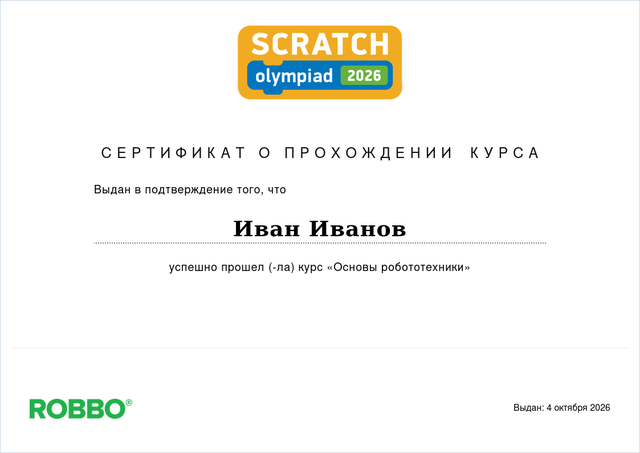
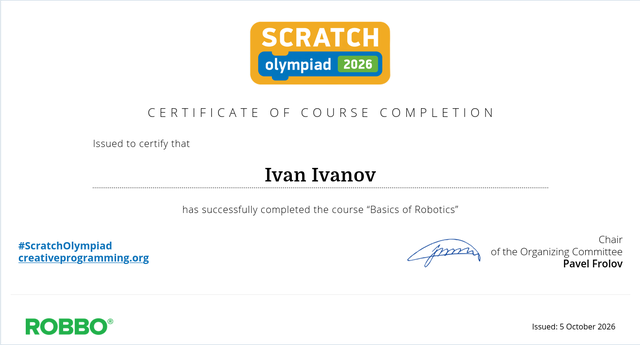
feat(certificates): English Scratch Olympiad sheet as the courses default design

diff --git a/themes/robbo-theme/lms/templates/certificates/designs/olympiad.html b/themes/robbo-theme/lms/templates/certificates/designs/olympiad.html
@@ -1,7 +1,6 @@
 ## title: Олимпиада Scratch
-## description: Белый лист с логотипом олимпиады Scratch и подписью председателя оргкомитета.
+## description: Белый лист на английском с логотипом олимпиады Scratch, датой выдачи и подписью председателя оргкомитета.
 <%page expression_filter="h"/>
-<%! from django.utils.translation import gettext as _ %>
 <%namespace name='static' file='/static_content.html'/>
 <%
 # Exact Koa Scratch-Olympiad sheet markup
@@ -10,6 +9,10 @@
 # overridden in robbo-certificate.css (.robbo-koa-cert).
 course_mode_class = course_mode if course_mode else ''
 cert_mode = course_mode or ''
+# courses: the sheet is English whatever the interface language (like the green sheet);
+# plain strftime gives English month names in the LMS container.
+created_on = context.get('certificate_created_on')
+issued_on = created_on.strftime('%-d %B %Y') if created_on else certificate_created_date
 %>
 
 <main class="accomplishment accomplishment-main">
@@ -24,7 +27,7 @@ cert_mode = course_mode or ''
             <div class="accomplishment-type">
 
                 <span style="margin-top: 20px; margin-bottom: 6.5%" class="accomplishment-type-symbol">
-                  <img style="width: 95% !important; max-width: 95% !important;" class="src" src="${static.url('robbo-theme/images/certificates/Robbo-scratch-olympiad.png')}" alt="${_('Scratch Olympiad logo')}">
+                  <img style="width: 95% !important; max-width: 95% !important;" class="src" src="${static.url('robbo-theme/images/certificates/Robbo-scratch-olympiad.png')}" alt="Scratch Olympiad logo">
                 </span>
 
             </div>
@@ -32,16 +35,16 @@ cert_mode = course_mode or ''
             <div class="wrapper-statement-and-signatories-top">
                 <div style="margin-bottom: 30px !important; margin-left:13.3% !important; margin-right: 13.3% !important;" class="accomplishment-statement-left">
 
-                    <p style="white-space: pre; max-width: 100% !important;" class="accomplishment-type-label hd-3-s">${_("C E R T I F I C A T E   O F   C O U R S E   C O M P L E T I O N")}</p>
+                    <p style="white-space: pre; max-width: 100% !important;" class="accomplishment-type-label hd-3-s">C E R T I F I C A T E   O F   C O U R S E   C O M P L E T I O N</p>
 
                     <p class="accomplishment-statement-lead">
-                        <p style="text-align: left; line-height: 1.0 !important;" class="accomplishment-summary copy copy-lead-middle">${_("Issued to certify that")}</p>
+                        <p style="text-align: left; line-height: 1.0 !important;" class="accomplishment-summary copy copy-lead-middle">Issued to certify that</p>
 
                         <strong class="accomplishment-recipient emphasized hd-1-emphasized ">${accomplishment_copy_name}</strong>
                     </p>
                     <p style="border-bottom: 2px dotted gray; margin-bottom: 30px !important;" class="accomplishment-summary copy copy-lead">&nbsp;</p>
 
-                    <p style="line-height: 1.35 !important; margin-bottom: 25px !important;" class="accomplishment-statement-detail copy copy-lead-middle">${_("has successfully completed the course “{course_name}”").format(course_name=accomplishment_copy_course_name)}</p>
+                    <p style="line-height: 1.35 !important; margin-bottom: 25px !important;" class="accomplishment-statement-detail copy copy-lead-middle">has successfully completed the course “${accomplishment_copy_course_name}”</p>
                 </div>
             </div>
 
@@ -49,7 +52,7 @@ cert_mode = course_mode or ''
             <div class="wrapper-statement-and-signatories">
                 % if cert_mode != 'base':
                 <div class="accomplishment-signatories">
-                    <h3 class="accomplishment-signatories-title sr-only">${_("Noted by")}</h3>
+                    <h3 class="accomplishment-signatories-title sr-only">Noted by</h3>
                     <div class="wrapper-signatories">
                         <div class="list-signatories">
                             % if certificate_data:
@@ -64,9 +67,9 @@ cert_mode = course_mode or ''
                                         <div class="signatory-simple robbo-koa-cert__sign-block">
                                            <img class="signatory-signature robbo-koa-cert__signature" src="${static.url(signatory['signature_image_path'])}" alt="${signatory['name']}">
                                             <div class="signatory-name robbo-koa-cert__role">
-                                               <h4 class="signatory-name hd-5-middle name-part">${_("Chair")}</h4>
-                                               <h4 class="signatory-name hd-5-middle name-part">${_("of the Organizing Committee")}</h4>
-                                               <h4 class="signatory-name hd-5-middle-name name-part">Павел Фролов</h4>
+                                               <h4 class="signatory-name hd-5-middle name-part">Chair</h4>
+                                               <h4 class="signatory-name hd-5-middle name-part">of the Organizing Committee</h4>
+                                               <h4 class="signatory-name hd-5-middle-name name-part">Pavel Frolov</h4>
                                              </div>
                                         </div>
                                     </div>
@@ -79,7 +82,7 @@ cert_mode = course_mode or ''
                 % endif
             </div>
             <div style="margin-bottom: 0rem !important; margin-top: 0rem !important;" class="accomplishment-orgs">
-                <h3 class="accomplishment-orgs-title sr-only">${_("Supported by the following organizations")}</h3>
+                <h3 class="accomplishment-orgs-title sr-only">Supported by the following organizations</h3>
                 <ul style="justify-content: space-between;" class="wrapper-orgs list-orgs">
 
                     % if organization_logo:
@@ -103,7 +106,7 @@ cert_mode = course_mode or ''
 
                     <li class="wrapper-organization">
                         <div class="organization-right print-right robbo-koa-cert__issued">
-                             <span class="robbo-koa-cert__issued-line">${_("Issued:")} ${certificate_created_date}</span>
+                             <span class="robbo-koa-cert__issued-line">Issued: ${issued_on}</span>
                         </div>
                     </li>
 

diff --git a/themes/robbo-theme/lms/templates/certificates/designs/green.html b/themes/robbo-theme/lms/templates/certificates/designs/green.html
@@ -7,7 +7,7 @@
 ##
 ## "Green" certificate sheet: background traced from the designer PDF
 ## (images/certificates/robbo-green-cert-bg.svg, text removed), live text on top.
-## Default design on courses (lms/djangoapps/robbo_certificates/designs.py); the course volume comes from
+## Selectable on courses (lms/djangoapps/robbo_certificates/designs.py); the course volume comes from
 ## Studio → Certificates → «Объём курса, часов» (cert_html_view_overrides.robbo_course_hours).
 ## The sheet is English by design (the word CERTIFICATE is part of the artwork),
 ## so its copy is intentionally not passed through gettext.

diff --git a/lms/djangoapps/robbo_certificates/designs.py b/lms/djangoapps/robbo_certificates/designs.py
@@ -27,7 +27,7 @@ from django.core.files.storage import default_storage
 from openedx.core.djangoapps.theming.helpers import get_theme_base_dir
 
 DESIGN_OVERRIDE_KEY = 'robbo_certificate_template'
-DEFAULT_DESIGN = 'green'  # courses: the green sheet (online: olympiad, skill: robbo)
+DEFAULT_DESIGN = 'olympiad'  # courses: Scratch Olympiad sheet in English (online: olympiad, skill: robbo)
 PREVIEW_QUERY_PARAM = 'robbo_design'
 
 KIND_THEME = 'theme'
